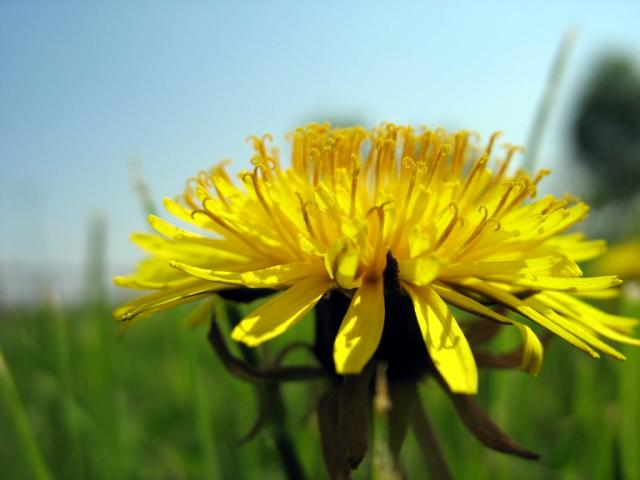
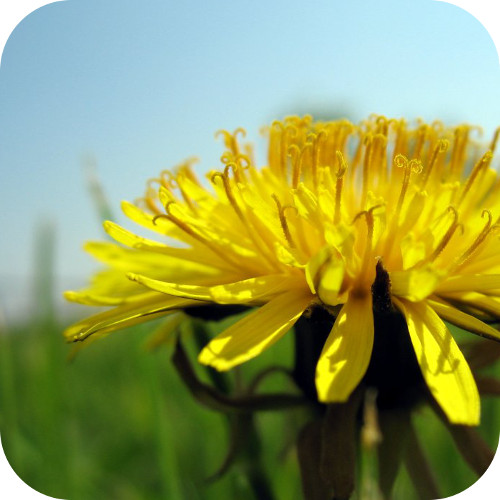
Changed pictures and listing fonts

diff --git a/css/base.css b/css/base.css
@@ -98,7 +98,7 @@ a {
     margin-bottom: 10px; }
   .content p {
     color: #000000;
-    font-size: 14px;
+    font-size: 15px;
     margin-top: 10px;
     margin-bottom: 1.2em;
     line-height: 1.7em; }
@@ -110,7 +110,7 @@ a {
       padding: 2px 3px; }
   .content img {
     padding: 3px;
-    border: 1px solid #eeeeee;
+    /*border: 1px solid #eeeeee;*/
     max-width: 100%; }
   .content hr {
     border: 0;
@@ -155,15 +155,19 @@ a {
       margin: 0;
       padding: 0; }
     .content .listing li {
-      font-size: 18px;
+      font-size: 17px;
       list-style: none;
       padding: 0px 3px;
       color: #777777;
       border-bottom: 1px solid #eee; }
     .content .listing li span {
+      font-weight: bold;
+      letter-spacing: 2px;
       float: right; }
     .content .listing a {
-      text-decoration: none; }
+      font-weight: bold;
+      letter-spacing: 2px;
+      text-decoration: none ; }
       .content .listing a:hover {
         color: #777777;
   .content .meta {

diff --git a/index.html b/index.html
@@ -13,7 +13,7 @@ title: "Posts"
       {% if post.image %}
         <br/>
         <div style="float:left; padding-top:10px; padding-bottom:1.2em; padding-right:20px;">
-          <a href="{{ BASE_PATH }}{{ post.url }}"><img src="{{ BASE_PATH }}{{ post.image }}" width="175" /></a>
+          <a href="{{ BASE_PATH }}{{ post.url }}"><img src="{{ BASE_PATH }}{{ post.image }}" height="100" /></a>
         </div>
       {% endif %}
       {% if post.description %}

diff --git a/_layouts/layout.html b/_layouts/layout.html
@@ -30,7 +30,7 @@
 <body>
   <section class="sidebar">
 	 <a href="{{ BASE_PATH}}">
-      <img src="{{ BASE_PATH }}/images/grads.jpg" height="175" width="175" class="avatar" />
+      <img src="{{ BASE_PATH }}/images/grads-circ.jpg" height="175" width="175" class="avatar" />
     </a>
 
   	 <section class="name">

diff --git a/_posts/2013-05-24-lorem-ipsum.md b/_posts/2013-05-24-lorem-ipsum.md
@@ -3,7 +3,7 @@ layout: post
 title: "Lorem Ipsum"
 category:
 tags: []
-image: /images/dandelion.jpg
+image: /images/dave-corners.jpg
 description: 
   "Curabitur eget risus vel mi iaculis mattis vel et lectus. Duis tincidunt
   accumsan ornare. Aliquam erat volutpat. Maecenas porttitor ornare leo nec

diff --git a/_posts/2013-05-23-cough-cough.md b/_posts/2013-05-23-cough-cough.md
@@ -4,6 +4,7 @@ title: "Cough Cough"
 description: "No image here. Just a description! Yeah!"
 category: 
 tags: []
+image: /images/dandelion.jpg
 ---
 {% include JB/setup %}
 
